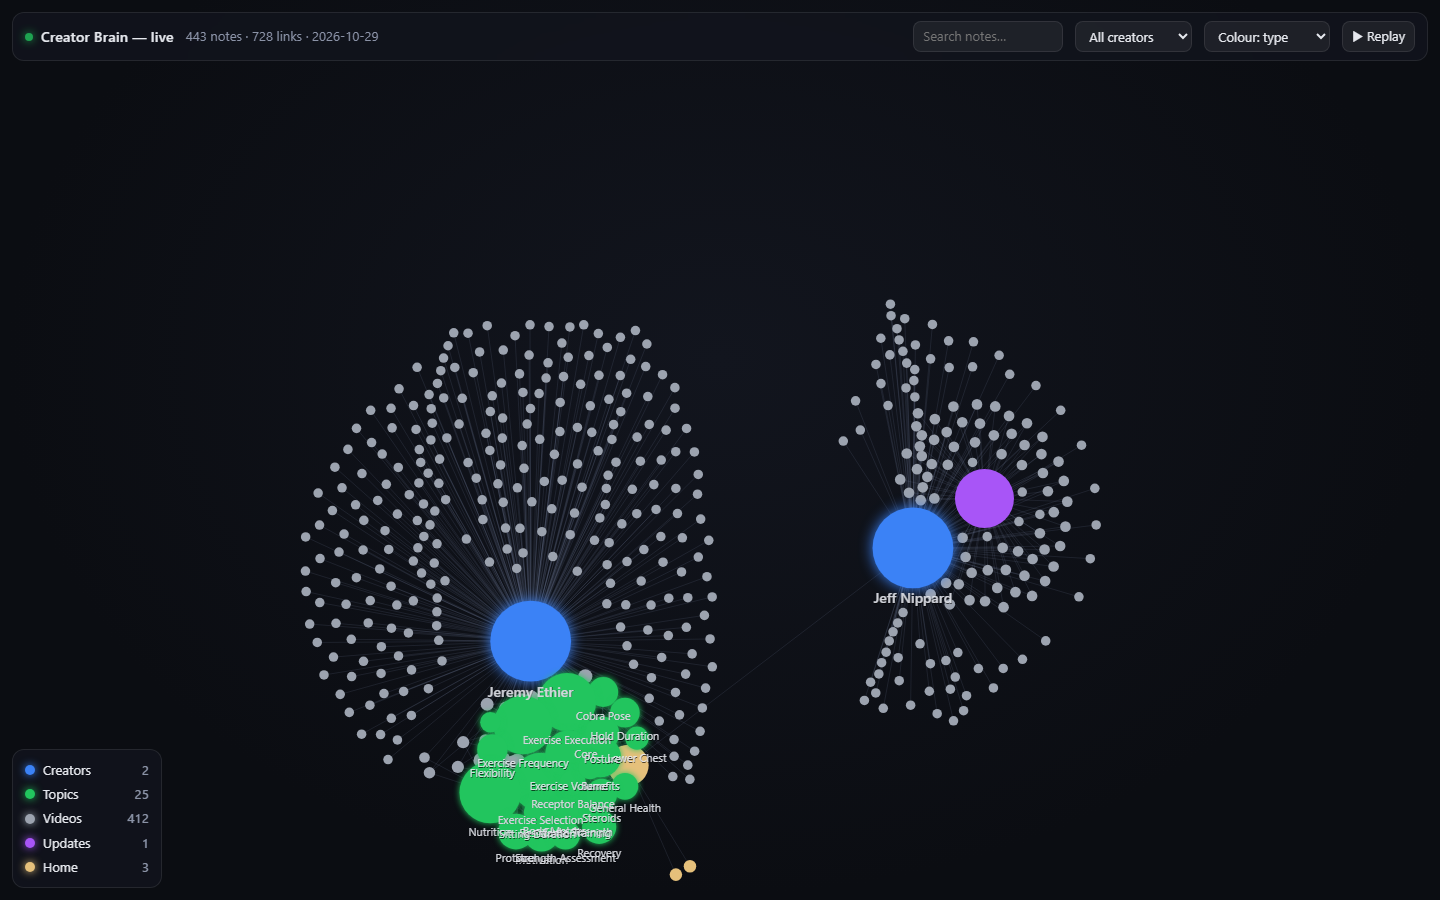
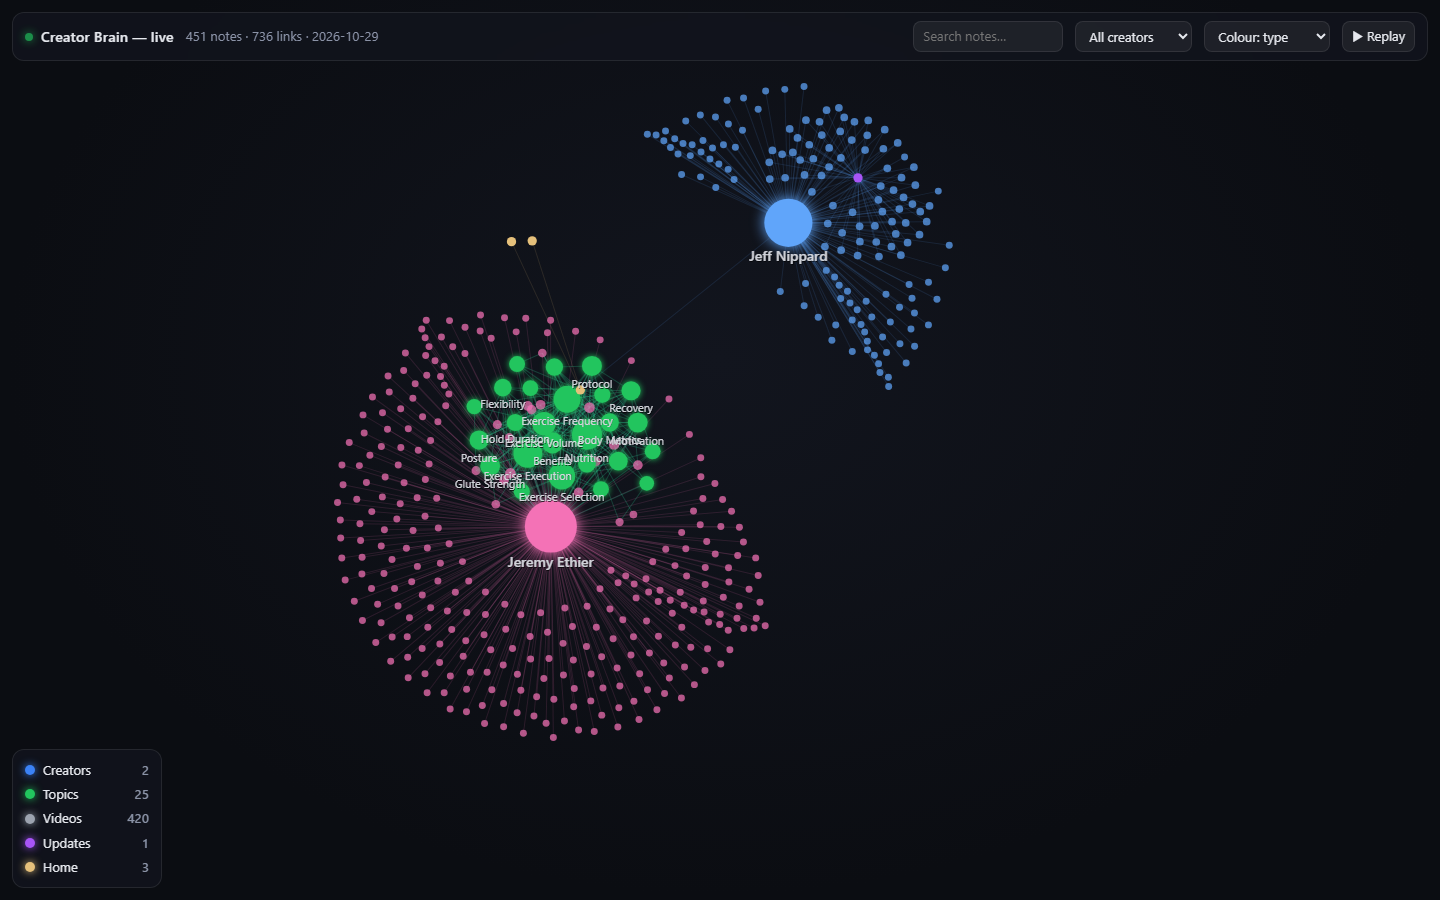
feat: agent mode — the user's agent reads transcripts and writes claims, code verifies; agent-owned topic naming/merging
- MCP: next_video_to_analyse, submit_claims, list_topics, merge_topics, rebuild_brain, pause_brain, resume_brain
- agent jobs ignore Groq quota back-off and can target one creator
- SKILL.md: agent builds, names and tidies the brain; README tool table
- Groq stays an optional background helper (free tier: 200k tokens/model/day)

diff --git a/cbrain/service.py b/cbrain/service.py
@@ -769,6 +769,82 @@ class Brain:
         return {"matched": len(unique), "added": len(added), "videos": preview, "worker_started": started,
                 "message": f"Added {len(added)} video(s) to {cr.name}'s brain; they download in the background."}
 
+    # ---- agent mode: the user's own AI does the reading, code does the checking ------------------------
+    @_safe
+    def analysis_next(self, creator: str | None = None) -> dict:
+        """Lease the next video that still needs claims and hand its transcript + rules to the agent."""
+        slug = self._resolve(creator).slug if creator else None
+        rows = self.store.claim(states=("written",), limit=1, lease_seconds=1800, to_state="extracting",
+                                ignore_backoff=True, creator_slug=slug)  # the agent needs no Groq quota
+        if not rows:
+            counts = self.store.counts(slug)
+            return {"video": None, "message": "Nothing left to analyse." if not counts.get("written") else
+                    "Remaining videos are leased by another worker; try again in a few minutes.", "counts": counts}
+        row = rows[0]
+        cr = self.store.get_creator(row.creator_slug)
+        ex = _mod("cbrain.think.extract")
+        transcript = _mod("cbrain.think.pipeline").Thinker(self.store, self.paths, self.settings, None, None
+                                                          )._load_transcript(row.id)
+        known = sorted(_mod("cbrain.think.topics").TopicRegistry(self.paths).all_topics())[:150]
+        task = ex.write_agent_batch(self.paths, cr, row.meta(), transcript, known).read_text(encoding="utf-8")
+        head, _, rest = task.partition("## What to write")
+        if rest:  # drop only the file-writing instructions (they don't apply over MCP); keep the transcript
+            task = head + "## Transcript" + rest.split("## Transcript", 1)[-1]
+        left = self.store.counts(slug).get("written", 0)
+        return {"video_id": row.id, "title": row.title, "creator": cr.name, "videos_left": left, "task": task,
+                "message": f"Read the task, then call submit_claims('{row.id}', claims). {left} more after this."}
+
+    @_safe
+    def analysis_submit(self, video_id: str, claims: list) -> dict:
+        """Verify the agent's claims against the transcript (code, not AI) and add the kept ones to the brain."""
+        row = self.store.get(video_id)
+        if row is None:
+            return {"error": f"unknown video {video_id}", "hint": "use the video_id from next_video_to_analyse"}
+        cr = self.store.get_creator(row.creator_slug)
+        ex = _mod("cbrain.think.extract")
+        raw = ex.parse_claims_payload({"claims": claims}, cr.slug, row.id, row.published)
+        thinker = _mod("cbrain.think.pipeline").Thinker(self.store, self.paths, self.settings, self._writer(),
+                                                         self._index())
+        kept = thinker.process(row, cr, raw_claims=raw)
+        self.store.mark(row.id, "done")
+        _mod("cbrain.vault.relink").relink(self.paths, self.store, self._writer(), only_videos={row.id})
+        rejected = len(raw) - len(kept)
+        return {"video_id": row.id, "submitted": len(claims), "kept": len(kept), "rejected": rejected,
+                "topics": sorted({c.topic for c in kept}),
+                "message": f"Kept {len(kept)} verified claims" + (f"; {rejected} rejected because the quote is not in "
+                           "the transcript word for word" if rejected else "") + "."}
+
+    @_safe
+    def topic_overview(self) -> dict:
+        """Every topic with its claim count and creators, so the agent can plan merges and names."""
+        counts: dict = {}
+        for c in self._iter_claims():
+            t = c.get("topic") or ""
+            d = counts.setdefault(t, {"claims": 0, "creators": set()})
+            d["claims"] += 1
+            d["creators"].add(c.get("creator"))
+        rows = sorted(({"topic": t, "claims": d["claims"], "creators": sorted(d["creators"])} for t, d in counts.items()),
+                      key=lambda r: -r["claims"])
+        return {"topics": rows, "message": f"{len(rows)} topics."}
+
+    @_safe
+    def apply_topic_groups(self, groups: dict) -> dict:
+        """Merge topics the agent grouped ({new name: [old names]}); code checks names and relinks every note."""
+        if self._worker_running():
+            return {"error": "the background worker is running", "hint": "call pause_brain first, then retry"}
+        mg = _mod("cbrain.think.merge")
+        known = {r["topic"] for r in self.topic_overview()["topics"]}
+        clean = {}
+        for name, members in (groups or {}).items():
+            ms = [m for m in members if m in known]
+            if name and ms:
+                clean[name] = ms
+        res = mg.apply_groups(self.paths, self.store, self._writer(), self._index(), clean)
+        res.update(_mod("cbrain.vault.relink").relink(self.paths, self.store, self._writer()))
+        self._refresh_overview()
+        res["message"] = f"Merged {res.get('merged_topics', 0)} topic names; {res.get('topics_now')} topics now."
+        return res
+
     @_safe
     def rebuild(self, merge: bool = True) -> dict:
         """Re-render the whole vault: readable names, key points, topic + related links, dashboards.

diff --git a/cbrain/mcp_server.py b/cbrain/mcp_server.py
@@ -58,6 +58,47 @@ def create_server(get_brain: Getter) -> Any:
         return call("add_videos", creator, match=match, video_ids=video_ids, top=top, dry_run=dry_run)
 
     @mcp.tool()
+    def next_video_to_analyse(creator: str | None = None) -> dict[str, Any]:
+        """YOU are the brain's reader. Returns one video's transcript (with [mm:ss] markers), the known topics and the
+        rules for writing knowledge cards. Read it, write the claims yourself, then call submit_claims. Repeat to
+        build the brain without any external AI key. Returns video=None when nothing is left."""
+        return call("analysis_next", creator)
+
+    @mcp.tool()
+    def submit_claims(video_id: str, claims: list[dict]) -> dict[str, Any]:
+        """Add your knowledge cards for a video. Each item: {"claim": one plain sentence, "quote": 6-40 words copied
+        EXACTLY from the transcript, "t": "mm:ss", "topic": short Title Case topic (reuse known topics),
+        "kind": advice|fact|protocol|warning|opinion}. Code checks every quote against the transcript and drops
+        any that don't match word for word; the result says how many were kept."""
+        return call("analysis_submit", video_id, claims)
+
+    @mcp.tool()
+    def list_topics() -> dict[str, Any]:
+        """All topics with claim counts and creators. Use it to plan clean topic names and merges."""
+        return call("topic_overview")
+
+    @mcp.tool()
+    def merge_topics(groups: dict[str, list[str]]) -> dict[str, Any]:
+        """Rename/merge topics: {"Protein Intake": ["Daily Protein", "Protein Timing"], ...}. Only existing names are
+        used; claims, topic notes, video links and search are rewritten, old names stay as aliases. Pause first."""
+        return call("apply_topic_groups", groups)
+
+    @mcp.tool()
+    def rebuild_brain() -> dict[str, Any]:
+        """Re-render every note (clean names, key points, topic + related links, dashboards). Pause first."""
+        return call("rebuild", False)
+
+    @mcp.tool()
+    def pause_brain() -> dict[str, Any]:
+        """Pause background downloading/analysis (needed before merge_topics or rebuild_brain)."""
+        return call("pause")
+
+    @mcp.tool()
+    def resume_brain() -> dict[str, Any]:
+        """Resume background work after maintenance."""
+        return call("resume")
+
+    @mcp.tool()
     def brain_graph() -> dict[str, Any]:
         """Start the live, animated graph of the brain on localhost and return its URL. Give the user the link:
         nodes pop in as videos and topics are added, and Replay animates how the brain was built."""

diff --git a/cbrain/jobs.py b/cbrain/jobs.py
@@ -142,19 +142,20 @@ class JobStore:
         return queued
 
     def claim(self, states: tuple[str, ...] = (JobState.QUEUED.value,), limit: int = 1,
-              lease_seconds: int = 600, to_state: str = JobState.FETCHING.value) -> list[VideoRow]:
-        """Atomically lease the highest-priority due jobs."""
-        t = time.time()
+              lease_seconds: int = 600, to_state: str = JobState.FETCHING.value,
+              ignore_backoff: bool = False, creator_slug: str | None = None) -> list[VideoRow]:
+        """Atomically lease the highest-priority due jobs (ignore_backoff: also jobs resting after a quota error)."""
+        t = time.time() if not ignore_backoff else float("inf")
         marks = ",".join("?" * len(states))
         with self.tx():
             rows = self.db.execute(
                 f"""SELECT * FROM videos WHERE state IN ({marks}) AND selected=1 AND next_try_at<=?
-                    ORDER BY priority DESC, published DESC LIMIT ?""",
-                (*states, t, limit),
+                    AND (? IS NULL OR creator_slug=?) ORDER BY priority DESC, published DESC LIMIT ?""",
+                (*states, t, creator_slug, creator_slug, limit),
             ).fetchall()
             for r in rows:
                 self.db.execute("UPDATE videos SET state=?, lease_until=?, updated_at=? WHERE id=?",
-                                (to_state, t + lease_seconds, now_iso(), r["id"]))
+                                (to_state, time.time() + lease_seconds, now_iso(), r["id"]))
         return [self._row(r, state=to_state) for r in rows]
 
     def mark(self, video_id: str, state: JobState | str, transcript_source: str | None = None) -> None:

diff --git a/tests/test_mcp.py b/tests/test_mcp.py
@@ -8,7 +8,7 @@ from cbrain.service import Brain
 from tests.rcpt_fakes import install, seed_videos
 
 TOOLS = {"add_creator", "update_creators", "brain_status", "search_brain", "get_topic", "compare_creators",
-         "my_profile", "save_output", "suggest_creators", "brain_doctor", "add_videos", "brain_graph"}
+         "my_profile", "save_output", "suggest_creators", "brain_doctor", "add_videos", "brain_graph", "next_video_to_analyse", "submit_claims", "list_topics", "merge_topics", "rebuild_brain", "pause_brain", "resume_brain"}
 
 
 class FakeBrain:

diff --git a/skills/creator-brain/SKILL.md b/skills/creator-brain/SKILL.md
@@ -6,7 +6,8 @@ description: Build, search and maintain "creator brains" — Obsidian vaults mad
 # Creator Brain — agent playbook
 
 A **brain** = one creator's videos turned into linked notes inside one shared Obsidian vault
-(default `~/CreatorBrain`). Every claim carries an exact quote that code verified against the transcript,
+(default `~/CreatorBrain`). The tool fetches and stores; **you** (the agent) read, write claims, name topics and
+keep the structure clean, while code checks every quote. Every claim carries an exact quote that code verified against the transcript,
 plus a timestamp link. Your job: answer from the brain, cite it, and keep it healthy.
 
 ## 0. Before anything
@@ -35,17 +36,40 @@ Never invent a claim, number or quote. If the brain has nothing, say so and offe
 3. Tell the user the **brain label** it returns (e.g. `jeff-nippard · recent · updated 2026-10-29 · 147 videos`)
    and offer the live view: `brain_graph` returns a localhost URL where notes pop in as they arrive.
 
-## 3. Add more of a creator's videos
+## 3. YOU build the brain: read videos and write claims
+Transcripts download by themselves. Turning them into knowledge is your job (Groq, if configured, only helps
+in the background and its free tier covers ~30-40 videos a day).
+
+Loop until `next_video_to_analyse` returns `video: null` (or until the user's request is covered — analyse the
+videos that matter for it first, e.g. pass `creator=`):
+1. `next_video_to_analyse(creator)` → read the `task`: rules, known topics and the timestamped transcript.
+2. Write up to 12 knowledge cards. Every `quote` is 6-40 words copied **exactly** (skip `>>`, `[music]`, and never
+   bridge across another speaker's interjection). `t` = the `[mm:ss]` where the quote starts.
+3. **Name topics well**: reuse a known topic when it fits; otherwise a short, broad Title Case name a coach would
+   file notes under ("Protein Intake", not "Protein Intake For Older Women In Winter").
+4. `submit_claims(video_id, claims)` → code verifies each quote; rejected ones were not word-for-word — fix and
+   resubmit only if the point matters.
+5. Tell the user progress every few videos ("analysed 12 of 260").
+
+## 4. YOU keep the brain tidy: names and structure
+After a batch of videos (or when `list_topics` shows many 1-2 claim topics):
+1. `list_topics()` → plan groups: near-duplicates and narrow sub-cases into one broad, clear name.
+2. `pause_brain()` → `merge_topics({"Protein Intake": ["Daily Protein", "Protein Timing"], ...})`.
+3. `rebuild_brain()` → clean note names, Key points, related-topic links, dashboards. Then `resume_brain()`.
+4. `brain_doctor(fix=True)`; report what changed.
+Brain names are automatic (`jeremy-ethier · recent · updated <date> · <n> videos`); never rename creator folders.
+
+## 5. Add more of a creator's videos
 Every upload is listed in `creators/<Name>/<Name> - All Videos.md` (✅ in brain, ⏳ queued, ➕ not added).
 1. `add_videos(creator, match="words in title", dry_run=True)` → show the matches.
 2. After the user agrees: same call without `dry_run`. Or `top=N` for the N most-viewed missing videos.
 
-## 4. Keep it fresh
+## 6. Keep it fresh
 - A new-video check runs by itself at most once a day on the first tool call. Force it: `update_creators()`.
 - New material shows up in `creators/<Name>/updates/<Name> - Update YYYY-MM-DD.md` (new videos, new advice,
   ⚠ changed advice). Mention these when relevant.
 
-## 5. Maintain (when something looks wrong)
+## 7. Maintain (when something looks wrong)
 | Symptom | Fix |
 |---|---|
 | anything odd | `brain_doctor(fix=True)` — broken links, missing notes, stuck jobs, parked videos |
@@ -56,7 +80,7 @@ Every upload is listed in `creators/<Name>/<Name> - All Videos.md` (✅ in brain
 
 `pause` first for rebuild/merge/dates: they rewrite notes the worker also writes.
 
-## 6. Show the brain
+## 8. Show the brain
 - Live, animated graph in the browser: MCP `brain_graph` or CLI `brain graph` (Replay animates how it grew).
 - Obsidian: open the vault folder; graph view colours creators blue, topics green, videos grey.
 

diff --git a/README.md b/README.md
@@ -85,6 +85,8 @@ Give the agent the playbook too: copy `skills/creator-brain/` into your skills f
 | `save_output(title, markdown, sources)` | Save plans/answers into the vault (they join the graph) |
 | `suggest_creators(topic)` | Find strong channels for a topic |
 | `brain_status` · `brain_doctor(fix)` · `brain_graph` | Progress, health checks/repairs, live graph URL |
+| `next_video_to_analyse` · `submit_claims(video_id, claims)` | **Your agent reads the transcript and writes the claims**; code verifies every quote (no API key needed) |
+| `list_topics` · `merge_topics(groups)` · `rebuild_brain` · `pause_brain` / `resume_brain` | Your agent names, merges and restructures topics and notes |
 
 ## Use cases
 
@@ -114,7 +116,7 @@ flowchart LR
 |---|---|
 | Transcripts | Lane 0 = your IP, paced (~240 videos/h, under YouTube's ~300/h guest limit). More lanes through proxies (your own list, or verified free ones). Sponsor segments cut via SponsorBlock. |
 | Queue | One SQLite job per video; leases, retries with back-off, parked with a reason after 3 failures. |
-| Extraction | Groq models rotated, each with its own free quota; follows Groq's rate-limit headers; daily caps defer jobs instead of failing them. No Groq key? Your own agent extracts from `.brain/pending_extraction/`. |
+| Extraction | **Your own agent** (via `next_video_to_analyse` → `submit_claims`), plus optional Groq in the background: models rotated, each with its own free quota; follows Groq's rate-limit headers; daily caps defer jobs instead of failing them. No Groq key? Your own agent extracts from `.brain/pending_extraction/`. |
 | Accuracy | Exact-quote check with one tolerance (a single mis-heard word) — never for numbers or negations. Wrong-language transcripts are redone. |
 | Many agents | One writer lock per vault; any number of readers. |
 
